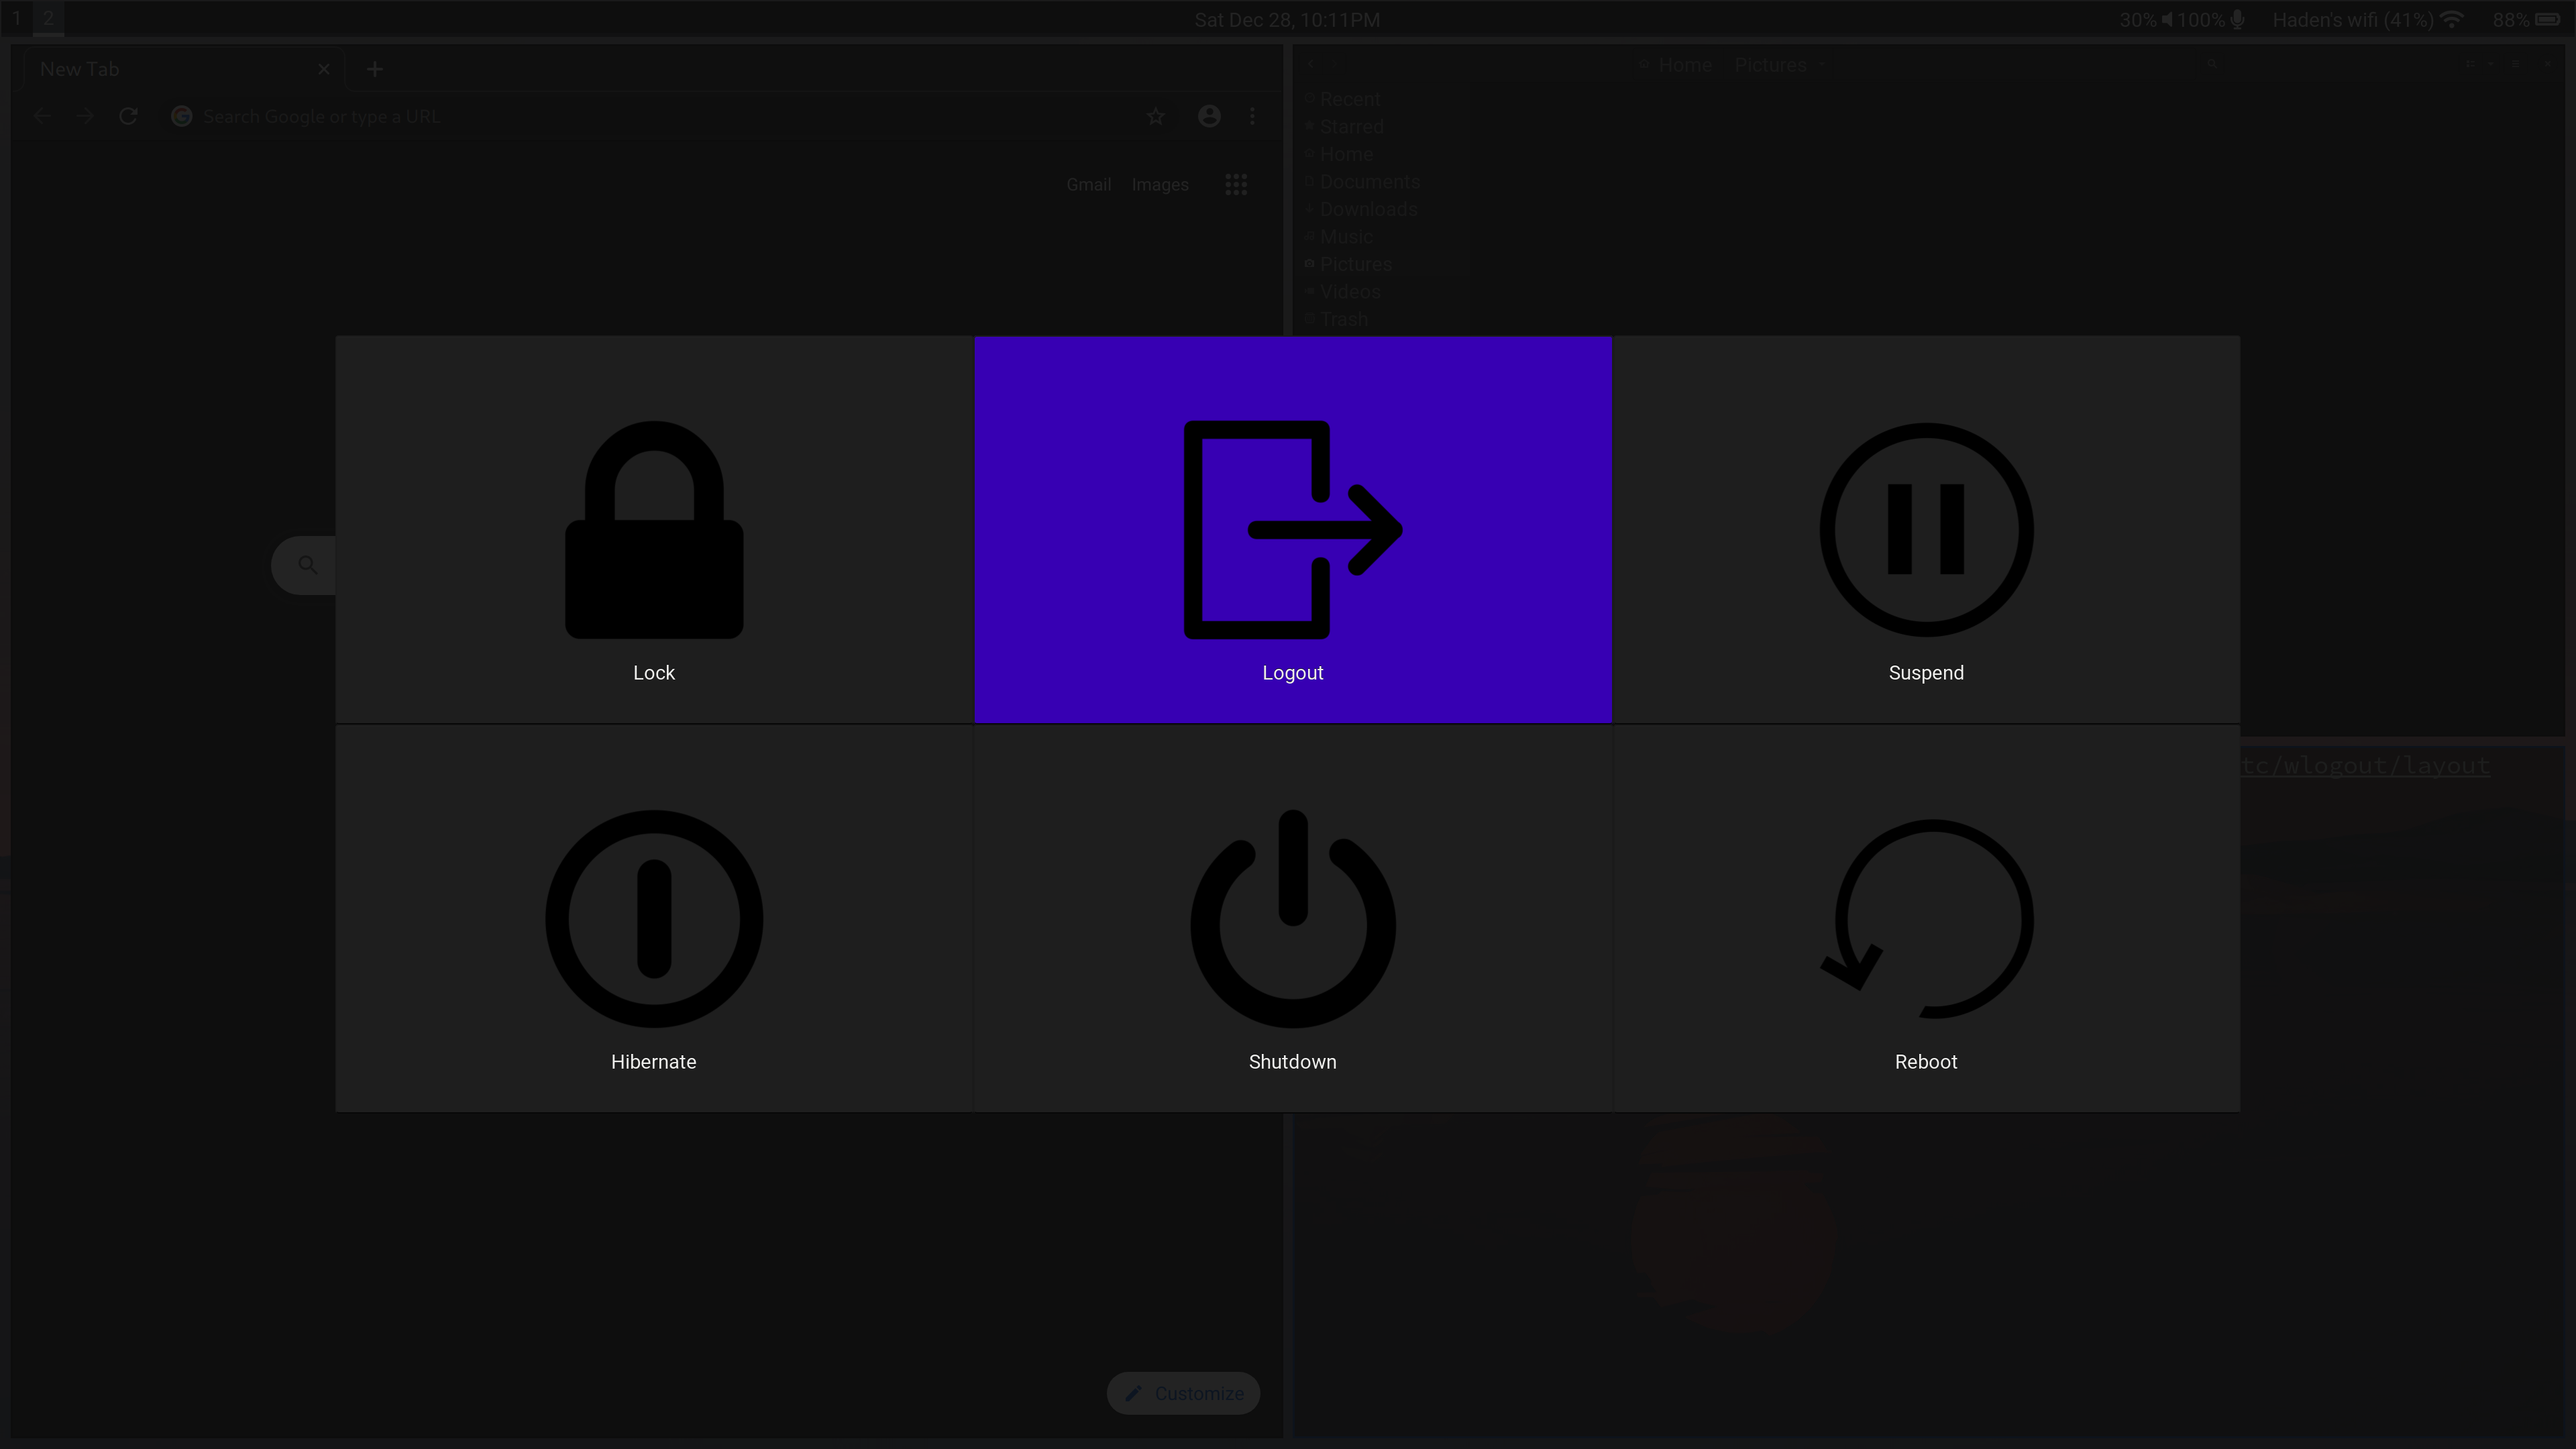
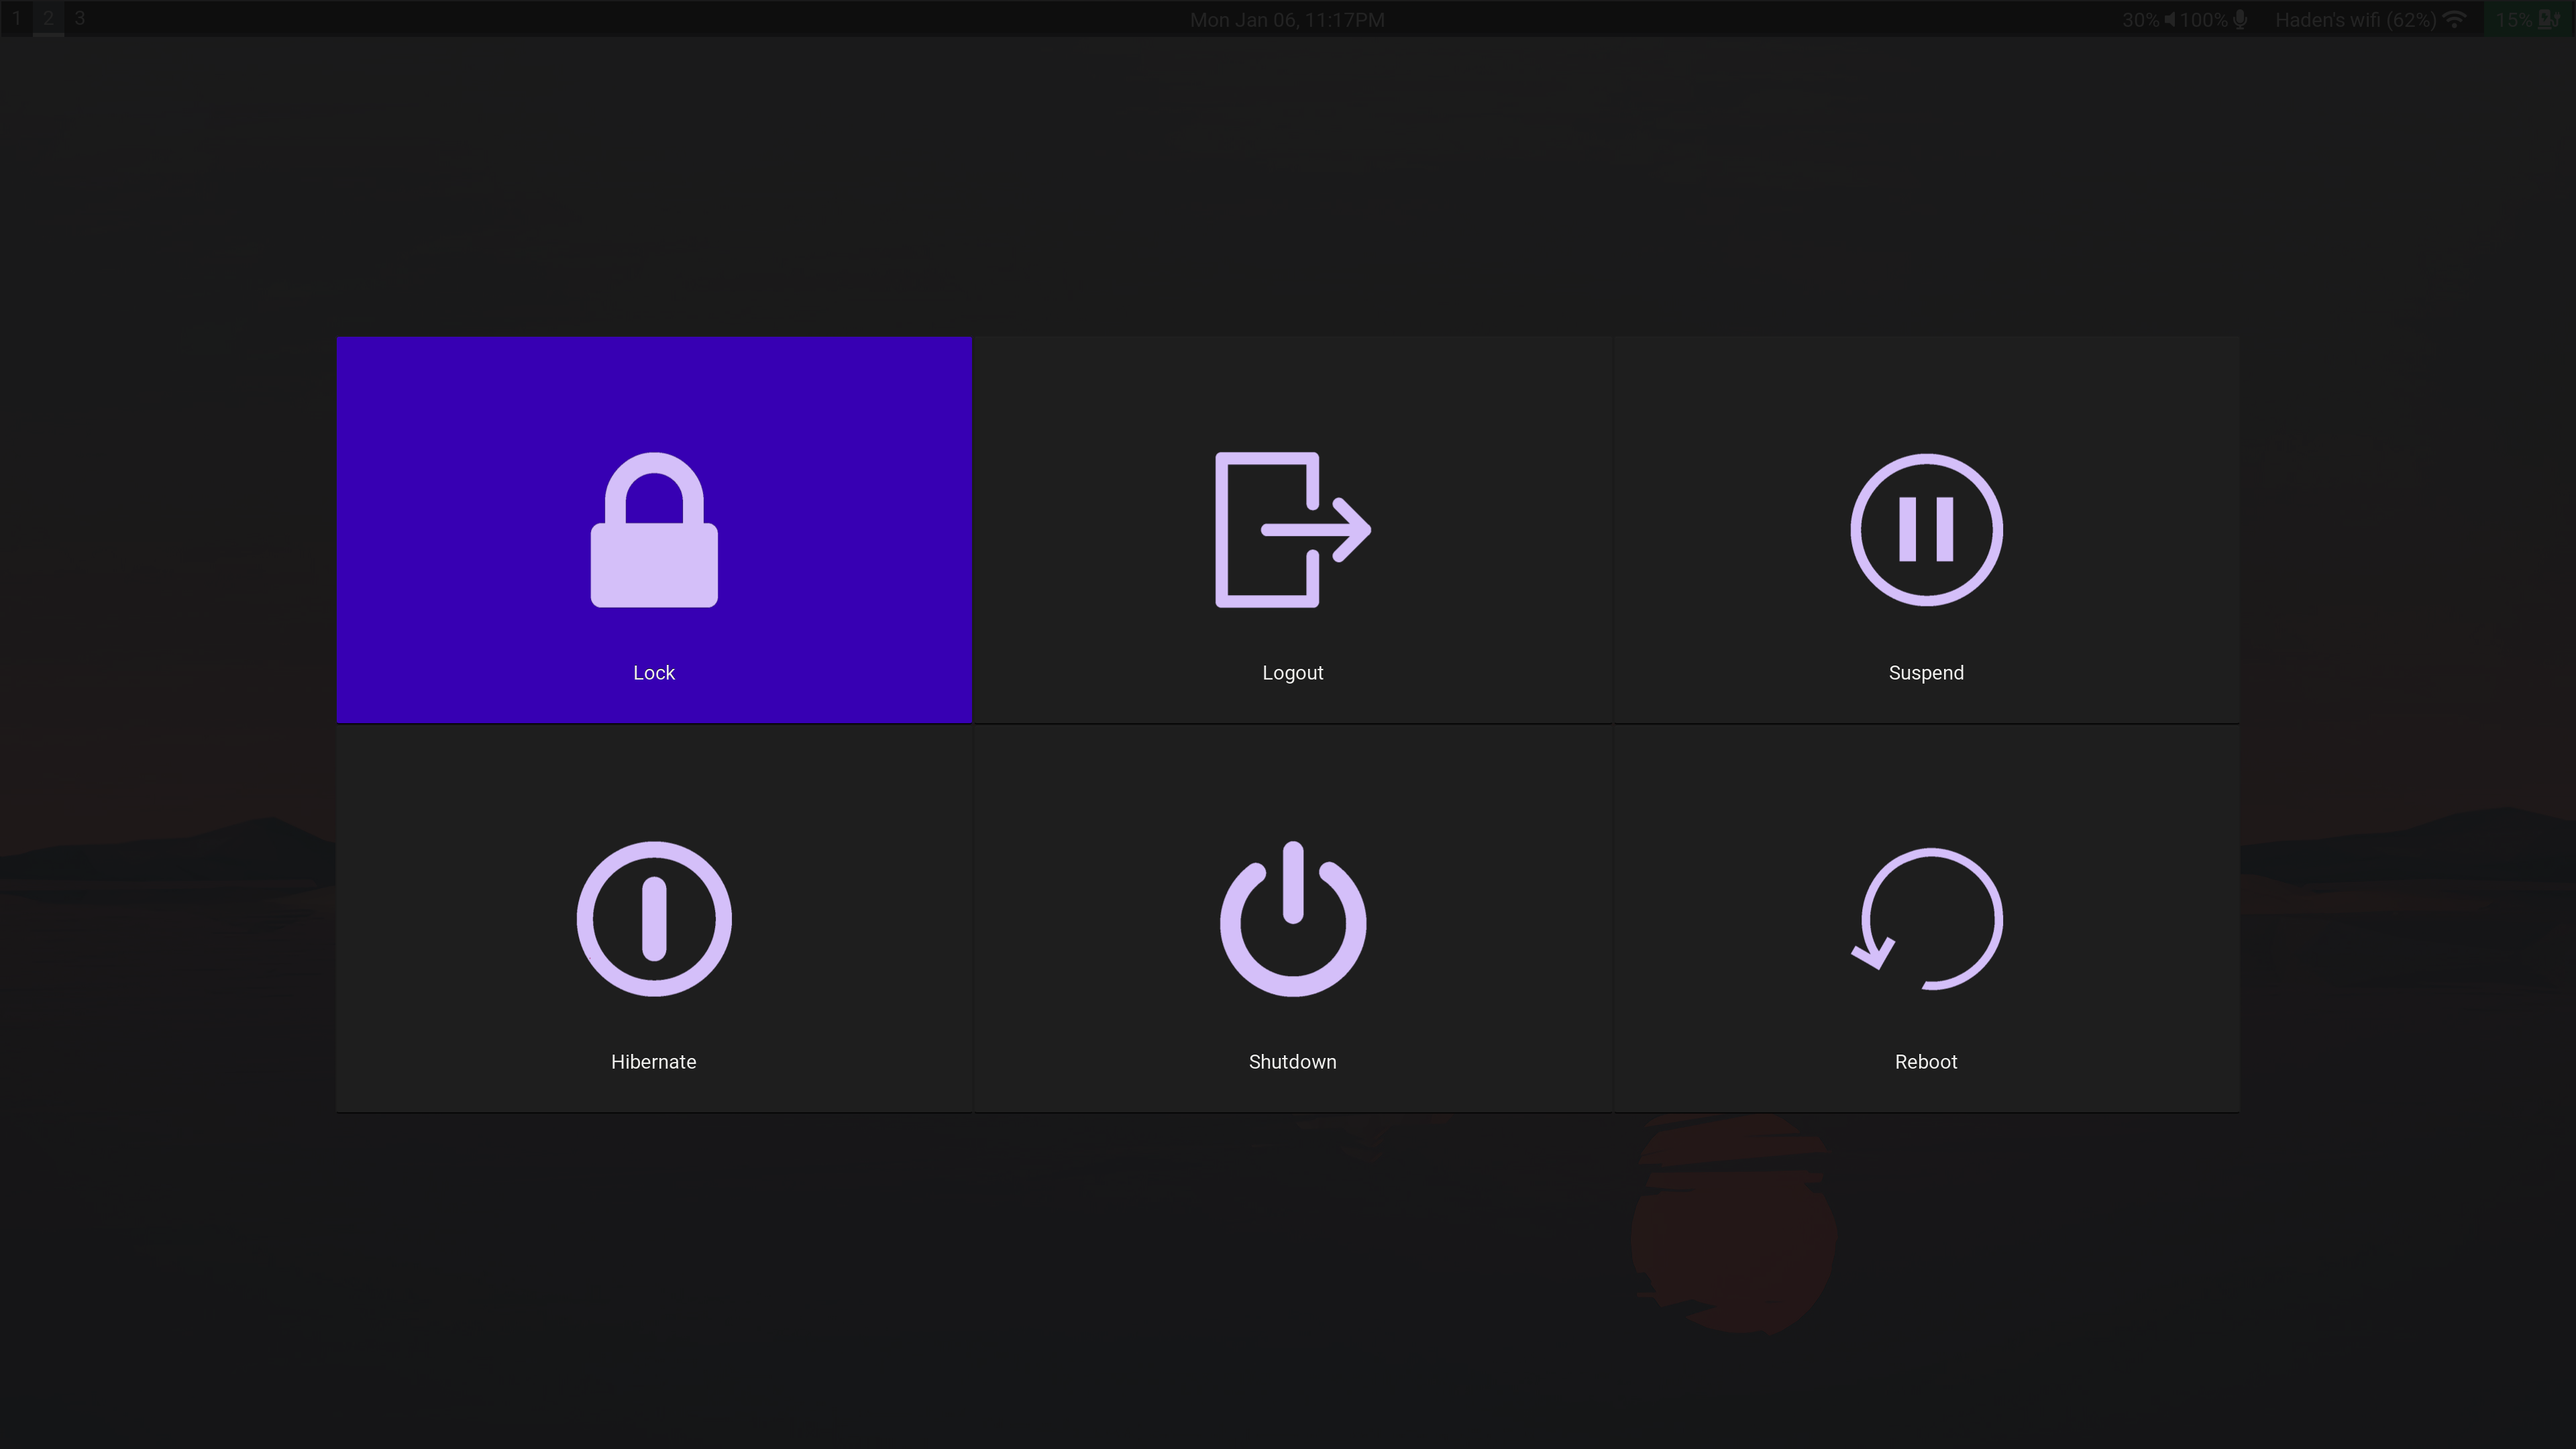
Changed button images to png's rendered from svgs
Using png's allows the icons to be colored, and as such the icons have
now been changed to be more readable; also the style.css will now search
multiple locations for the icons.

diff --git a/style.css b/style.css
@@ -10,42 +10,34 @@ button {
 	border-width: 2px;
 	background-repeat: no-repeat;
 	background-position: center;
-	background-size: 35%;
+	background-size: 25%;
 }
 
-button:hover {
-	background-color: #3700B3;
-}
-
-button:active {
-	background-color: #3700B3;
-}
-
-button:focus {
+button:focus, button:active, button:hover {
 	background-color: #3700B3;
 	outline-style: none;
 }
 
 #lock {
-    background-image: url("/usr/local/share/wlogout/assets/lock.svg");
+    background-image: image(url("/usr/share/wlogout/icons/lock.png"), url("/usr/local/share/wlogout/icons/lock.png"));
 }
 
 #logout {
-    background-image: url("/usr/local/share/wlogout/assets/logout.svg");
+    background-image: image(url("/usr/share/wlogout/icons/logout.png"), url("/usr/local/share/wlogout/icons/logout.png"));
 }
 
 #suspend {
-    background-image: url("/usr/local/share/wlogout/assets/suspend.svg");
+    background-image: image(url("/usr/share/wlogout/icons/suspend.png"), url("/usr/local/share/wlogout/icons/suspend.png"));
 }
 
 #hibernate {
-    background-image: url("/usr/local/share/wlogout/assets/hibernate.svg");
+    background-image: image(url("/usr/share/wlogout/icons/hibernate.png"), url("/usr/local/share/wlogout/icons/hibernate.png"));
 }
 
 #shutdown {
-    background-image: url("/usr/local/share/wlogout/assets/shutdown.svg");
+    background-image: image(url("/usr/share/wlogout/icons/shutdown.png"), url("/usr/local/share/wlogout/icons/shutdown.png"));
 }
 
 #reboot {
-    background-image: url("/usr/local/share/wlogout/assets/reboot.svg");
+    background-image: image(url("/usr/share/wlogout/icons/reboot.png"), url("/usr/local/share/wlogout/icons/reboot.png"));
 }

diff --git a/assets/CREDIT.md b/assets/CREDIT.md
@@ -1,5 +1,7 @@
 # Credits
 ## Svg's
+All svgs used to render icons
+
 [Lock icon](lock.svg) from [onlinewebfonts](https://www.onlinewebfonts.com/icon/312) licensed by Creative Commons 3.0
 
 [Logout icon](logout.svg) from [onlinewebfonts](https://www.onlinewebfonts.com/icon/248752) licensed by Creative Commons 3.0
